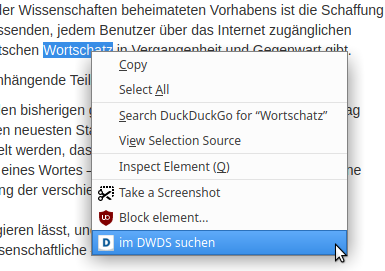
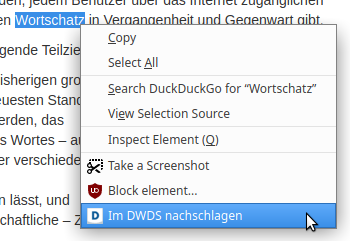
usability changes → version 0.1.1

diff --git a/src/background.js b/src/background.js
@@ -4,7 +4,7 @@ Create a menu item for the search engine
 function createMenuItem(engines) {
   browser.menus.create({
     id: "dwds",
-    title: "im DWDS nachschlagen",
+    title: "Im DWDS nachschlagen",
     contexts: ["selection"]
   });
 }

diff --git a/README.md b/README.md
@@ -6,3 +6,5 @@ This extension allows for
 
 - selecting the DWDS in the search menu
 - forwarding selected text to the DWDS search page on right-click
+
+Firefox add-on page: [https://addons.mozilla.org/firefox/addon/dwds/](https://addons.mozilla.org/firefox/addon/dwds/)
